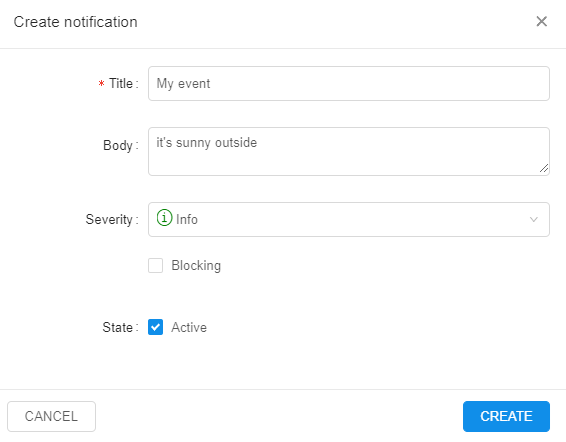
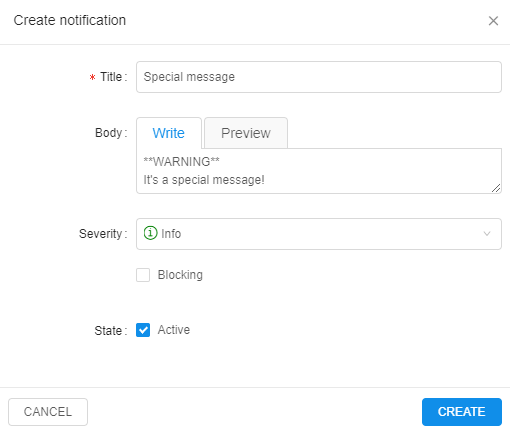
Descriptions of additional features and notable bug fixes were added to the RN v.0.15

diff --git a/docs/md/release_notes/v.0.15/v.0.15_-_Release_notes.md b/docs/md/release_notes/v.0.15/v.0.15_-_Release_notes.md
@@ -28,6 +28,9 @@
 - [Files uploading via `pipe` in case of restrictions](#execution-of-files-uploading-via-pipe-without-failures-in-case-of-lacks-read-permissions)
 - [Estimation run's disk size according to the input/common parameters](#estimation-runs-disk-size-according-to-the-inputcommon-parameters)
 - [Disabling of the Global Search form if a corresponding service is not installed](#disabling-of-the-global-search-form-if-a-corresponding-service-is-not-installed)
+- [Disabling of the FS mounts creation if no FS mount points are registered](#disabling-of-the-fs-mounts-creation-if-no-fs-mount-points-are-registered)
+- [Displaying resource limit errors during run resuming](#displaying-resource-limit-errors-during-run-resuming)
+- [Object storage creation in despite of that the CORS/Policies could not be applied](#object-storage-creation-in-despite-of-that-the-corspolicies-could-not-be-applied)
 
 ***
 
@@ -46,6 +49,11 @@
     - [Incorrect `pipe` CLI version displaying](#incorrect-pipe-cli-version-displaying)
     - [JWT token shall be updated for the jobs being resumed](#jwt-token-shall-be-updated-for-the-jobs-being-resumed)
     - [Trying to rename file in the data storage, while the "Attributes" panel is opened, throws an error](#trying-to-rename-file-in-the-data-storage-while-the-attributes-panel-is-opened-throws-an-error)
+    - [Invalid layout for global search](#invalid-layout-for-global-search)
+    - [Cluster run cannot be launched with a Pretty URL](#cluster-run-cannot-be-launched-with-a-pretty-url)
+    - [Cloning of large repositories might fail](#cloning-of-large-repositories-might-fail)
+    - [System events HTML overflow](#system-events-html-overflow)
+    - [AWS: Pipeline run `InitializeNode` task fails](#aws-pipeline-run-initializenode-task-fails)
 
 ***
 
@@ -543,6 +551,44 @@ In current version, a small enhancement for the Global Search is implemented. No
 - the "Search" button will be hidden from the left menu
 - keyboard search shortcut will be disabled
 
+## Disabling of the FS mounts creation if no FS mount points are registered
+
+In the `Cloud Pipeline`, along with the regular data storages user can also create [FS mounts](../../manual/08_Manage_Data_Storage/8.7._Create_shared_file_system.md) - data storages based on the network file system:  
+    ![CP_v.0.15_ReleaseNotes](attachments/RN015_DisablingFSmounts_1.png)
+
+For the correct FS mount creation, at least one mount point shall be registered in the `Cloud Pipeline` Preferences.  
+Now, if no FS mount points are registered for any Cloud Region in the System Preferences - user can not create a new FS mount, the corresponding button becomes invisible:  
+    ![CP_v.0.15_ReleaseNotes](attachments/RN015_DisablingFSmounts_2.png)
+
+## Displaying resource limit errors during run resuming
+
+User may hit a situation of resource limits while trying to resume previously paused run. E.g. instance type was available when run was initially launched, but at the moment of resume operation provider has no sufficient capacity for this type. Previously, in this case run could be failed with an error of insufficient resources.
+
+In **`v0.15`** the following approach is implemented for such cases:
+
+- resuming run doesn't fail if resource limits are hit. That run returns to the `Paused` state
+- log message that contains a reason for resume failure and returning back to the `Paused` state is being added to the `ResumeRun` task
+- user is notified about such event. The corresponding warning messages are displayed:
+    - at the **Run logs** page  
+    ![CP_v.0.15_ReleaseNotes](attachments/RN015_FailedResuming_1.png)
+    - at the **ACTIVE RUNS** page (hint message while hovering the **RESUME** button)  
+    ![CP_v.0.15_ReleaseNotes](attachments/RN015_FailedResuming_3.png)
+    - at the **ACTIVE RUNS** panel of the Dashboard (hint message while hovering the **RESUME** button)  
+    ![CP_v.0.15_ReleaseNotes](attachments/RN015_FailedResuming_2.png)
+
+## Object storage creation in despite of that the CORS/Policies could not be applied
+
+Previously, if the Cloud service account/role had permissions to create object storages, but lacked permissions to apply `CORS` or other policies - object storage was created, but the `Cloud Pipeline API` threw an exception and storage was not being registered.  
+This led to the creation of a "zombie" storage, which was not available via GUI, but existed in the Cloud.
+
+Currently, the `Cloud Pipeline API` doesn't fail such requests and storage is being registered normally.  
+But the corresponding warning will be displayed to the user like this:
+
+```
+The storage {storage_name} was created, but certain policies were not applied.
+This can be caused by insufficient permissions.
+```
+
 ***
 
 ## Notable Bug fixes
@@ -551,7 +597,7 @@ In current version, a small enhancement for the Global Search is implemented. No
 
 [#221](https://github.com/epam/cloud-pipeline/issues/221)
 
-When user was searching for an entry, that may belong to different classes (e.g. `issues` and `folders`) - user was not able to filter the results by the class
+When user was searching for an entry, that may belong to different classes (e.g. `issues` and `folders`) - user was not able to filter the results by the class.
 
 ### "COMMITTING..." status hangs
 
@@ -572,11 +618,9 @@ Metadata entities (i.e. project-related metadata) sorting was faulty:
 
 [#144](https://github.com/epam/cloud-pipeline/issues/144)
 
-If there is a tool group in the registry, which is not empty (i.e. contains 1+ tools) - an attempt to delete it throws SQL error.
-
-It works fine if the child tools are dropped beforehand.
-
-Now it is possible to delete such a group if a `force` flag is set in the confirmation dialog.
+If there is a tool group in the registry, which is not empty (i.e. contains 1+ tools) - an attempt to delete it throws SQL error.  
+It works fine if the child tools are dropped beforehand.  
+Now, it is possible to delete such a group if a `force` flag is set in the confirmation dialog.
 
 ### Missing region while estimating a run price
 
@@ -594,9 +638,8 @@ Web GUI interface was not providing an option to select a region when adding an 
 
 [#265](https://github.com/epam/cloud-pipeline/issues/265)
 
-All authorized users were permitted to browse the metadata of `users` and `roles` entities. But those entries may contain a sensitive data, that shall not be shared across users.
-
-Now a general user may list only personal `user-level` metadata. Administrators may list both `users` and `roles` metadata across all entries.
+All authorized users were permitted to browse the metadata of `users` and `roles` entities. But those entries may contain a sensitive data, that shall not be shared across users.  
+Now, a general user may list only personal `user-level` metadata. Administrators may list both `users` and `roles` metadata across all entries.
 
 ### Getting logs from Kubernetes may cause `OutOfMemory` error
 
@@ -621,7 +664,7 @@ Previously, in a situation when an `AWS` spot instance created after some timeou
 
 [#557](https://github.com/epam/cloud-pipeline/issues/557)
 
-Previously, if cluster run was launched with enabled "Auto pause" option, parent-run or its child-runs could be paused (when autopause conditions were satisfied, of course). It was incorrect behavior because in that case, user couldn't resume such paused runs and go on his work (only "Terminate" buttons were available).
+Previously, if cluster run was launched with enabled "Auto pause" option, parent-run or its child-runs could be paused (when autopause conditions were satisfied, of course). It was incorrect behavior because in that case, user couldn't resume such paused runs and go on his work (only "Terminate" buttons were available).  
 In current version, `autopause` daemon doesn't handle any clusters ("Static" or "Autoscaled").  
 Also now, if the cluster is configured - **Auto pause** checkbox doesn't display in the **Launch Form** for the `On-Demand` node types.
 
@@ -635,12 +678,48 @@ Previously, `pipe` CLI version displayed incorrectly for the `pipe` CLI installa
 
 [#579](https://github.com/epam/cloud-pipeline/issues/579)
 
-In cases when users launched on-demand jobs, paused them and then, after a long time period (2+ months), tried to resume such jobs - expired JWT tokens were set for them that led to different problems when any of the initialization routines tried to communicate with the API.
-
-Now, the JWT token (and other variables as well) are being updated when a job is being resumed.
+In cases when users launched on-demand jobs, paused them and then, after a long time period (2+ months), tried to resume such jobs - expired JWT tokens were set for them that led to different problems when any of the initialization routines tried to communicate with the API.  
+Now, the JWT token and other variables as well are being updated when a job is being resumed.
 
 ### Trying to rename file in the data storage, while the "Attributes" panel is opened, throws an error
 
 [#520](https://github.com/epam/cloud-pipeline/issues/520)
 
 Renaming file in the datastorage with opened "Attributes" panel caused an unexpected error.
+
+### Invalid layout for global search
+
+[#619](https://github.com/epam/cloud-pipeline/issues/619)
+
+Global search page was not rendered correctly when the search results table had too many records.
+
+### Cluster run cannot be launched with a Pretty URL
+
+[#620](https://github.com/epam/cloud-pipeline/issues/620)
+
+Previously, if user tried to launch any interactive tool with [Pretty URL](../../manual/10_Manage_Tools/10.5._Launch_a_Tool.md#launch-a-tool-with-friendly-url) and configured cluster - an error appeared `URL {Pretty URL} is already used for run {Run ID}`.  
+Now, pretty URL could be set only for the parent runs, for the child runs regular URLs are set.
+
+### Cloning of large repositories might fail
+
+[#626](https://github.com/epam/cloud-pipeline/issues/626)
+
+When large repository (> 1Gb) was cloned (e.g. when a pipeline was being run) - `git clone` could fail with the OOM error happened at the GitLab server if it is not powerful enough. OOM was produced by the `git pack-objects` process, which tries to pack all the data in-memory.  
+Now, `git pack-objects` memory usage is limited to avoid errors in cases described above.
+
+### System events HTML overflow
+
+[#630](https://github.com/epam/cloud-pipeline/issues/630)
+
+If admin set a quite long text (without separators) into the message body of the [system event notifications](../../manual/12_Manage_Settings/12._Manage_Settings.md#system-events) - the resulting notification text "overflowed" the browser window.  
+Now, text wrapping is considered for such cases.
+
+Also, support of [Markdown](https://en.wikipedia.org/wiki/Markdown) was added for the system notification messages:  
+    ![CP_v.0.15_ReleaseNotes](attachments/RN015_NotificationsMarkdown.png)
+
+### AWS: Pipeline run `InitializeNode` task fails
+
+[#635](https://github.com/epam/cloud-pipeline/issues/635)
+
+Previously, if `AWS` spot instance could not be created after the specific number of attempts during the run initialization - such run was failed with the error, e.g.: `Exceeded retry count (100) for spot instance. Spot instance request status code: capacity-not-available`.  
+Now, in these cases, if spot instance isn't created after specific attempts number - the price type is switched to `on-demand` and run initialization continues.

diff --git a/docs/md/manual/11_Manage_Runs/11.1._Manage_runs_lifecycles.md b/docs/md/manual/11_Manage_Runs/11.1._Manage_runs_lifecycles.md
@@ -25,6 +25,16 @@ Cloud Platform currently provides functionality to launch and access services on
     Then a Run will continue working again.  
     ![CP_PauseResumeRuns](attachments/PauseResumeRuns_6.png)
 
+> **_Note_**: Not always paused run could be resumed. _E.g. user may hit a situation of resource limits - instance type was available when run was initially launched, but at the moment of resume operation provider has no sufficient capacity for this type._
+> In such cases, run will be returned to the `Paused` state. User will be notified about that - by the hint message near the **RESUME** button:  
+> ![CP_PauseResumeRuns](attachments/PauseResumeRuns_12.png)
+>
+> Or at the **Run information page**:  
+> ![CP_PauseResumeRuns](attachments/PauseResumeRuns_13.png)
+>
+> Or at the **ACTIVE RUNS** panel of the main Dashboard:  
+> ![CP_PauseResumeRuns](attachments/PauseResumeRuns_14.png)
+
 ## Stop/terminate run
 
 **STOP** option allows to stop a run execution forcibly. Once a run is stopped - all its local data will be deleted, this action couldn't be undone.  

diff --git a/docs/md/manual/08_Manage_Data_Storage/8.7._Create_shared_file_system.md b/docs/md/manual/08_Manage_Data_Storage/8.7._Create_shared_file_system.md
@@ -15,7 +15,9 @@ A shared file system is a data storage based on network file system. It has seve
 
 1. Navigate to a desired folder and click **+ Create → Storages → Create new FS mount**.  
     ![CP_CreateSharedFileSystem](attachments/CreateSharedFileSystem_1.png)  
-    **_Note_**: For FS mounts - **"Add existing"** option is not available.
+    **_Note_**: For FS mounts - **"Add existing"** option is not available.  
+    **_Note_**: For the correct FS mount creation, at least one mount point shall be registered in the System Preferences for any Cloud Region. If no - the corresponding button of the FS mount creation becomes invisible:  
+    ![CP_CreateSharedFileSystem](attachments/CreateSharedFileSystem_6.png)
 2. Specify **Storage path** and other optional parameters.  
     ![CP_CreateSharedFileSystem](attachments/CreateSharedFileSystem_2.png)  
     **_Note_**: Storage path parameter contains FS mount path and the name of the storage to be created.  

diff --git a/docs/md/manual/12_Manage_Settings/12.1._Add_a_new_system_event.md b/docs/md/manual/12_Manage_Settings/12.1._Add_a_new_system_event.md
@@ -6,7 +6,9 @@
 2. Click **+ADD**.  
     ![CP_AddNewSystemEvent](attachments/AddNewSystemEvent_1.png)
 3. Enter a **Title** of notification.
-4. Enter **Body** of the notification (optional).
+4. Enter a **Body** of the notification (optional). [Markdown](https://en.wikipedia.org/wiki/Markdown) is supported for the body text. You can preview result at the **Preview** tab:  
+    ![CP_AddNewSystemEvent](attachments/AddNewSystemEvent_3.png)  
+    ![CP_AddNewSystemEvent](attachments/AddNewSystemEvent_4.png)
 5. Rank notification **Severity** ("_info_", "_warning_" or "_critical_").
 6. Mark as **blocking** (_optional_). Blocking event emerges in the middle of the window and requires confirmation from the user to disappear.
 7. Mark as **active** (_optional_). Active notifications will be shown for all users of the Cloud Pipeline until admin sets them inactive.

diff --git a/docs/md/manual/12_Manage_Settings/12.2._Edit_a_system_event.md b/docs/md/manual/12_Manage_Settings/12.2._Edit_a_system_event.md
@@ -13,3 +13,10 @@
     - **Active** box. Active notifications will be shown for all users of the Cloud Pipeline until admin sets them inactive.
 4. Click **Save**.  
     ![CP_EditSystemEvent](attachments/EditSystemEvent_2.png)
+
+To delete a system event:
+
+1. Click the **Delete** button.  
+    ![CP_EditSystemEvent](attachments/EditSystemEvent_3.png)
+2. Confirm the deletion.  
+    ![CP_EditSystemEvent](attachments/EditSystemEvent_4.png)
